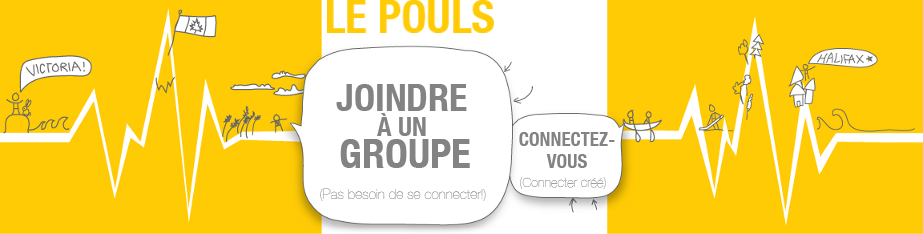
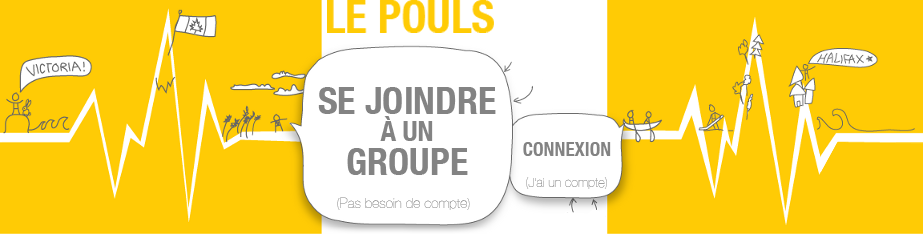
add more translations

diff --git a/public/javascripts/inputLiveValidations.js b/public/javascripts/inputLiveValidations.js
@@ -46,7 +46,13 @@ $(document).ready(function(){
 	{
 		valid = true;
 		if(inputCtrl.value == "" || typeof inputCtrl.value  == "undefined") valid = false;
-		valid ? InformativeMessage(inputCtrl, "<img src=\"/images/silk/accept.png\"/>") : ErrorMessage(inputCtrl, "<img src=\"/images/silk/exclamation.png\" /> required");
+    /* for translations */
+    if ($("#required_text").length > 0) {
+      required_text = $("#required_text").html();
+    } else {
+      required_text = "required"
+    }
+		valid ? InformativeMessage(inputCtrl, "<img src=\"/images/silk/accept.png\"/>") : ErrorMessage(inputCtrl, "<img src=\"/images/silk/exclamation.png\" /> " + required_text);
 		return valid;
 	}
 
@@ -73,7 +79,11 @@ $(document).ready(function(){
 
   yyyymmddMessage = "(yyyy/mm/dd)";
   requiredMessage = "";
-  submitValidateRequiredFailMessage = "Please fill all required fields";
+  if ($("#validation_failed_message").length > 0) {
+    submitValidateRequiredFailMessage = $("#validation_failed_message").html()
+  } else {
+    submitValidateRequiredFailMessage = "Please fill all required fields";
+  }
 
   $("input.positiveinteger").change(function (e) { e.currentTarget.value = pureInteger(e.currentTarget.value); });
   $("input.yyyymmdd").blur(function (e) { validDate(e.currentTarget); });

diff --git a/app/controllers/group_involvements_controller.rb b/app/controllers/group_involvements_controller.rb
@@ -23,14 +23,14 @@ class GroupInvolvementsController < ApplicationController
     
     session[:signup_groups] ||= {}
     session[:signup_groups][@group.id] = params[:level]
-    @message = params[:level] == 'interested' ? "Marked as interested" : "Join request pending"
+    @message = params[:level] == 'interested' ? t("groups.marked_interested") : t("groups.join_request_pending")
     
     respond_to do |format|
       format.html {
         if @group.needs_approval && params[:level] == 'member'
-          flash[:notice] = "Great! Your request to join has been sent to #{@group.name}"
+          flash[:notice] = t("groups.request_sent", :group_name => @group.name)
         elsif params[:level] == 'member'
-          flash[:notice] = "Great! Welcome to your group, #{@group.name}"
+          flash[:notice] = t("groups.welcome", :group_name => @group.name)
         end
         if logged_in?
           redirect_to :controller => :signup, :action => :step2_info_submit

diff --git a/app/controllers/dashboard_controller.rb b/app/controllers/dashboard_controller.rb
@@ -34,7 +34,7 @@ class DashboardController < ApplicationController
     # update my schedule flash notice
     my_timetable = (@my.timetable || Timetable.create(:person_id => @me.id))
     if my_timetable.updated_at.blank? || my_timetable.updated_at == my_timetable.created_at
-      flash[:notice] = "You haven't filled out your schedule yet. <a href='#{person_timetable_path(@me.id, my_timetable.id)}'>UPDATE MY SCHEDULE</a>"
+      flash[:notice] = "#{t("dashboard.update_schedule_msg")}  <a href='#{person_timetable_path(@me.id, my_timetable.id)}'>#{t("dashboard.update_schedule_title")}</a>"
     end
   end
 

diff --git a/db/migrate/20120112044129_add_translation_key_to_ministry_role.rb b/db/migrate/20120112044129_add_translation_key_to_ministry_role.rb
@@ -1,9 +1,14 @@
 class AddTranslationKeyToMinistryRole < ActiveRecord::Migration
   def self.up
-    add_column :ministry_role, :translation_key, :string
+    add_column :ministry_roles, :translation_key, :string
+    MinistryRole.reset_column_information
+    MinistryRole.all.each do |r|
+      r.translation_key = r.name.downcase.gsub(' ', '_')
+      r.save!
+    end
   end
 
   def self.down
-    remove_column :ministry_role, :translation_key
+    remove_column :ministry_roles, :translation_key
   end
 end

diff --git a/app/controllers/group_invitations_controller.rb b/app/controllers/group_invitations_controller.rb
@@ -81,7 +81,7 @@ class GroupInvitationsController < ApplicationController
   
   def accept
     session[:signup_group_invitation_id] = @invitation.id
-    flash[:notice] = "Great! Welcome to your group, #{@invitation.group.name}"
+    flash[:notice] = t("groups.welcome", :group_name => @invitation.group.name)
     
     # don't actually accept invitation until join a group process is done
     
